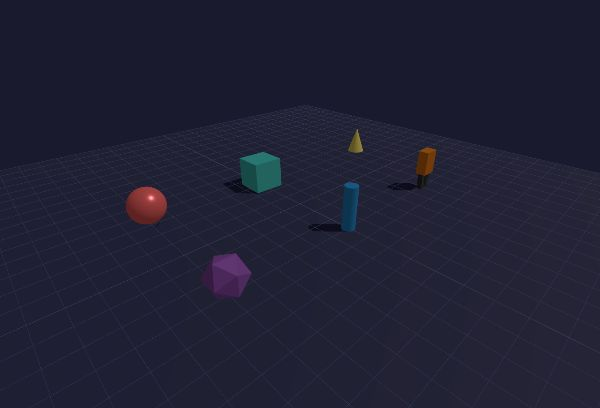
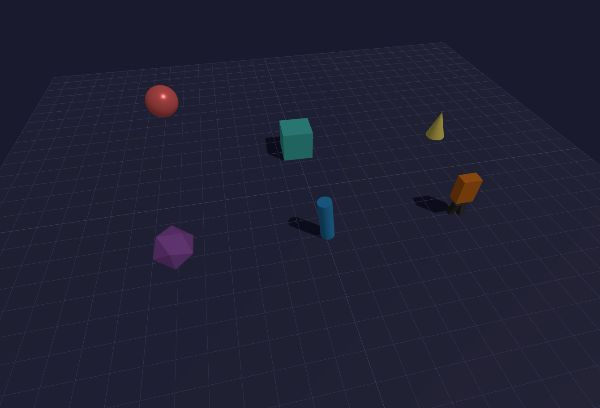
feat: 实现扩散圈示例 basic-diffusionCircle
- 波纹扩散动画效果
- 多波纹连续触发
- 点击地面触发扩散
- 自动随机触发模式
- 可调节扩散速度和半径
- 可调节波纹数量和颜色
- 渐变透明消失效果

diff --git a/examples/z258/basic-diffusionCircle.html b/examples/z258/basic-diffusionCircle.html
@@ -1,0 +1,348 @@
+<!DOCTYPE html>
+<html lang="zh-CN">
+<head>
+    <meta charset="UTF-8">
+    <meta name="viewport" content="width=device-width, initial-scale=1.0">
+    <meta name="description" content="扩散圈 - Three.js波纹扩散效果">
+    <title>扩散圈 - Three.js r179</title>
+    <style>
+        * { margin: 0; padding: 0; box-sizing: border-box; }
+        body { overflow: hidden; background: #0a0a1a; }
+        #container { width: 100vw; height: 100vh; }
+        
+        #controls {
+            position: absolute; top: 50px; right: 10px;
+            background: rgba(0,0,0,0.8); color: white;
+            padding: 15px; border-radius: 8px; z-index: 100;
+            width: 220px; font-size: 12px;
+        }
+        #controls h3 { color: #4a9eff; margin-bottom: 10px; font-size: 14px; }
+        #controls .control-group { margin: 10px 0; }
+        #controls label { display: block; margin-bottom: 5px; color: #aaa; }
+        #controls input[type="color"], #controls input[type="range"] { width: 100%; }
+        #controls button {
+            width: 100%; padding: 8px; margin: 5px 0;
+            background: #4a9eff; color: white; border: none;
+            border-radius: 4px; cursor: pointer;
+        }
+        #controls button:hover { background: #3a8eef; }
+        #controls .value { color: #4a9eff; float: right; }
+    </style>
+</head>
+<body>
+    <div id="container"></div>
+    
+    <div id="controls">
+        <h3>🌊 扩散圈</h3>
+        <div class="control-group">
+            <label>扩散速度 <span class="value" id="speedValue">2.0</span></label>
+            <input type="range" id="speedRange" min="0.5" max="5" step="0.1" value="2">
+        </div>
+        <div class="control-group">
+            <label>最大半径 <span class="value" id="radiusValue">15</span></label>
+            <input type="range" id="radiusRange" min="5" max="30" step="1" value="15">
+        </div>
+        <div class="control-group">
+            <label>波纹数量 <span class="value" id="countValue">3</span></label>
+            <input type="range" id="countRange" min="1" max="8" step="1" value="3">
+        </div>
+        <div class="control-group">
+            <label>波纹颜色</label>
+            <input type="color" id="waveColor" value="#00ffff">
+        </div>
+        <button id="btnTrigger">💥 触发扩散</button>
+        <button id="btnAuto">⏯ 自动触发</button>
+        <button id="btnClear">🗑 清除所有</button>
+    </div>
+
+    <script type="importmap">
+    {
+        "imports": {
+            "three": "../../libs/three/r179/build/three.module.js",
+            "three/addons/": "../../libs/three/r179/jsm/"
+        }
+    }
+    </script>
+
+    <script type="module">
+        import * as THREE from 'three';
+        import { OrbitControls } from 'three/addons/controls/OrbitControls.js';
+
+        const container = document.getElementById('container');
+
+        // 场景
+        const scene = new THREE.Scene();
+        scene.background = new THREE.Color(0x0a0a1a);
+        scene.fog = new THREE.Fog(0x0a0a1a, 10, 50);
+
+        // 相机
+        const camera = new THREE.PerspectiveCamera(60, window.innerWidth / window.innerHeight, 0.1, 1000);
+        camera.position.set(0, 20, 20);
+        camera.lookAt(0, 0, 0);
+
+        // 渲染器
+        const renderer = new THREE.WebGLRenderer({ antialias: true });
+        renderer.setSize(window.innerWidth, window.innerHeight);
+        renderer.setPixelRatio(Math.min(window.devicePixelRatio, 2));
+        container.appendChild(renderer.domElement);
+
+        // 控制器
+        const controls = new OrbitControls(camera, renderer.domElement);
+        controls.enableDamping = true;
+        controls.maxPolarAngle = Math.PI / 2 - 0.05;
+
+        // 灯光
+        const ambientLight = new THREE.AmbientLight(0xffffff, 0.3);
+        scene.add(ambientLight);
+
+        const dirLight = new THREE.DirectionalLight(0xffffff, 0.8);
+        dirLight.position.set(10, 20, 10);
+        scene.add(dirLight);
+
+        // 地面
+        const groundGeometry = new THREE.PlaneGeometry(100, 100);
+        const groundMaterial = new THREE.MeshStandardMaterial({ 
+            color: 0x1a1a2e,
+            roughness: 0.8,
+            metalness: 0.2
+        });
+        const ground = new THREE.Mesh(groundGeometry, groundMaterial);
+        ground.rotation.x = -Math.PI / 2;
+        ground.receiveShadow = true;
+        scene.add(ground);
+
+        // 网格辅助
+        const gridHelper = new THREE.GridHelper(100, 50, 0x2a2a4a, 0x1a1a3a);
+        scene.add(gridHelper);
+
+        // 扩散圈类
+        class DiffusionCircle {
+            constructor(x, z, color, maxRadius, speed) {
+                this.x = x;
+                this.z = z;
+                this.color = new THREE.Color(color);
+                this.maxRadius = maxRadius;
+                this.speed = speed;
+                this.radius = 0;
+                this.opacity = 1;
+                this.active = true;
+
+                // 创建圆环
+                const geometry = new THREE.RingGeometry(0.1, 0.5, 64);
+                const material = new THREE.MeshBasicMaterial({
+                    color: this.color,
+                    transparent: true,
+                    opacity: 1,
+                    side: THREE.DoubleSide
+                });
+                this.mesh = new THREE.Mesh(geometry, material);
+                this.mesh.rotation.x = -Math.PI / 2;
+                this.mesh.position.set(x, 0.1, z);
+                scene.add(this.mesh);
+
+                // 创建波纹线
+                const lineGeometry = new THREE.RingGeometry(0.1, 0.3, 64);
+                const lineMaterial = new THREE.MeshBasicMaterial({
+                    color: this.color,
+                    transparent: true,
+                    opacity: 0.8,
+                    side: THREE.DoubleSide
+                });
+                this.lineMesh = new THREE.Mesh(lineGeometry, lineMaterial);
+                this.lineMesh.rotation.x = -Math.PI / 2;
+                this.lineMesh.position.set(x, 0.15, z);
+                scene.add(this.lineMesh);
+            }
+
+            update(delta) {
+                if (!this.active) return;
+
+                this.radius += this.speed * delta * 5;
+                this.opacity = 1 - (this.radius / this.maxRadius);
+
+                if (this.radius >= this.maxRadius) {
+                    this.active = false;
+                    this.destroy();
+                    return;
+                }
+
+                // 更新圆环
+                const innerRadius = this.radius * 0.9;
+                const outerRadius = this.radius;
+                this.mesh.geometry.dispose();
+                this.mesh.geometry = new THREE.RingGeometry(innerRadius, outerRadius, 64);
+                this.mesh.material.opacity = this.opacity * 0.5;
+
+                // 更新波纹线
+                const lineInner = this.radius * 0.95;
+                const lineOuter = this.radius * 1.05;
+                this.lineMesh.geometry.dispose();
+                this.lineMesh.geometry = new THREE.RingGeometry(lineInner, lineOuter, 64);
+                this.lineMesh.material.opacity = this.opacity;
+            }
+
+            destroy() {
+                scene.remove(this.mesh);
+                scene.remove(this.lineMesh);
+                this.mesh.geometry.dispose();
+                this.mesh.material.dispose();
+                this.lineMesh.geometry.dispose();
+                this.lineMesh.material.dispose();
+            }
+        }
+
+        // 扩散圈管理
+        const diffusionCircles = [];
+        const config = {
+            speed: 2,
+            maxRadius: 15,
+            waveCount: 3,
+            color: '#00ffff',
+            autoTrigger: false
+        };
+
+        // 创建扩散圈组
+        function createDiffusionGroup(x, z) {
+            for (let i = 0; i < config.waveCount; i++) {
+                setTimeout(() => {
+                    const circle = new DiffusionCircle(
+                        x, z,
+                        config.color,
+                        config.maxRadius,
+                        config.speed
+                    );
+                    diffusionCircles.push(circle);
+                }, i * 300);
+            }
+        }
+
+        // 随机位置触发
+        function triggerRandom() {
+            const x = (Math.random() - 0.5) * 40;
+            const z = (Math.random() - 0.5) * 40;
+            createDiffusionGroup(x, z);
+        }
+
+        // 点击地面触发
+        const raycaster = new THREE.Raycaster();
+        const mouse = new THREE.Vector2();
+
+        renderer.domElement.addEventListener('click', (event) => {
+            mouse.x = (event.clientX / window.innerWidth) * 2 - 1;
+            mouse.y = -(event.clientY / window.innerHeight) * 2 + 1;
+
+            raycaster.setFromCamera(mouse, camera);
+            const intersects = raycaster.intersectObject(ground);
+
+            if (intersects.length > 0) {
+                const point = intersects[0].point;
+                createDiffusionGroup(point.x, point.z);
+            }
+        });
+
+        // 动画循环
+        const clock = new THREE.Clock();
+        let autoTriggerTimer = 0;
+
+        function animate() {
+            requestAnimationFrame(animate);
+
+            const delta = clock.getDelta();
+
+            // 更新扩散圈
+            for (let i = diffusionCircles.length - 1; i >= 0; i--) {
+                const circle = diffusionCircles[i];
+                circle.update(delta);
+                if (!circle.active) {
+                    diffusionCircles.splice(i, 1);
+                }
+            }
+
+            // 自动触发
+            if (config.autoTrigger) {
+                autoTriggerTimer += delta;
+                if (autoTriggerTimer >= 2) {
+                    triggerRandom();
+                    autoTriggerTimer = 0;
+                }
+            }
+
+            controls.update();
+            renderer.render(scene, camera);
+        }
+        animate();
+
+        // 窗口调整
+        window.addEventListener('resize', () => {
+            camera.aspect = window.innerWidth / window.innerHeight;
+            camera.updateProjectionMatrix();
+            renderer.setSize(window.innerWidth, window.innerHeight);
+        });
+
+        // 暴露到window
+        window.renderer = renderer;
+        window.camera = camera;
+        window.scene = scene;
+
+        // 控制面板事件
+        document.getElementById('speedRange').addEventListener('input', (e) => {
+            config.speed = parseFloat(e.target.value);
+            document.getElementById('speedValue').textContent = config.speed.toFixed(1);
+        });
+
+        document.getElementById('radiusRange').addEventListener('input', (e) => {
+            config.maxRadius = parseInt(e.target.value);
+            document.getElementById('radiusValue').textContent = config.maxRadius;
+        });
+
+        document.getElementById('countRange').addEventListener('input', (e) => {
+            config.waveCount = parseInt(e.target.value);
+            document.getElementById('countValue').textContent = config.waveCount;
+        });
+
+        document.getElementById('waveColor').addEventListener('input', (e) => {
+            config.color = e.target.value;
+        });
+
+        document.getElementById('btnTrigger').addEventListener('click', () => {
+            triggerRandom();
+        });
+
+        document.getElementById('btnAuto').addEventListener('click', () => {
+            config.autoTrigger = !config.autoTrigger;
+            document.getElementById('btnAuto').textContent = 
+                config.autoTrigger ? '⏹ 停止自动' : '⏯ 自动触发';
+        });
+
+        document.getElementById('btnClear').addEventListener('click', () => {
+            diffusionCircles.forEach(circle => circle.destroy());
+            diffusionCircles.length = 0;
+        });
+
+        // 初始触发
+        triggerRandom();
+    </script>
+
+    <!-- 截图支持 -->
+    <script>
+        window.addEventListener('message', (e) => {
+            if (e.data?.type === 'take-screenshot') {
+                try {
+                    if (window.scene && window.camera && window.renderer) {
+                        window.renderer.render(window.scene, window.camera);
+                    }
+                    const canvas = window.renderer.domElement;
+                    const temp = document.createElement('canvas');
+                    const scale = Math.min(600 / canvas.width, 600 / canvas.height);
+                    temp.width = canvas.width * scale;
+                    temp.height = canvas.height * scale;
+                    temp.getContext('2d').drawImage(canvas, 0, 0, temp.width, temp.height);
+                    window.parent.postMessage({ type: 'screenshot-data', dataUrl: temp.toDataURL('image/jpeg', e.data.quality || 0.8) }, '*');
+                } catch (err) {
+                    window.parent.postMessage({ type: 'screenshot-error', error: err.message }, '*');
+                }
+            }
+        });
+    </script>
+</body>
+</html>

diff --git a/js/data.js b/js/data.js
@@ -1342,6 +1342,14 @@ const threejsData = {
               url: "examples/z258/basic-modelAnimates",
             },
             {
+              id: "basic-diffusionCircle",
+              title: "扩散圈",
+              description: "波纹扩散效果，支持点击触发和自动触发",
+              thumbnail: "images/basic-diffusionCircle.jpg",
+              version: "r179",
+              url: "examples/z258/basic-diffusionCircle",
+            },
+            {
               id: "shader-audioSolutions",
               title: "音乐可视化",
               description:
